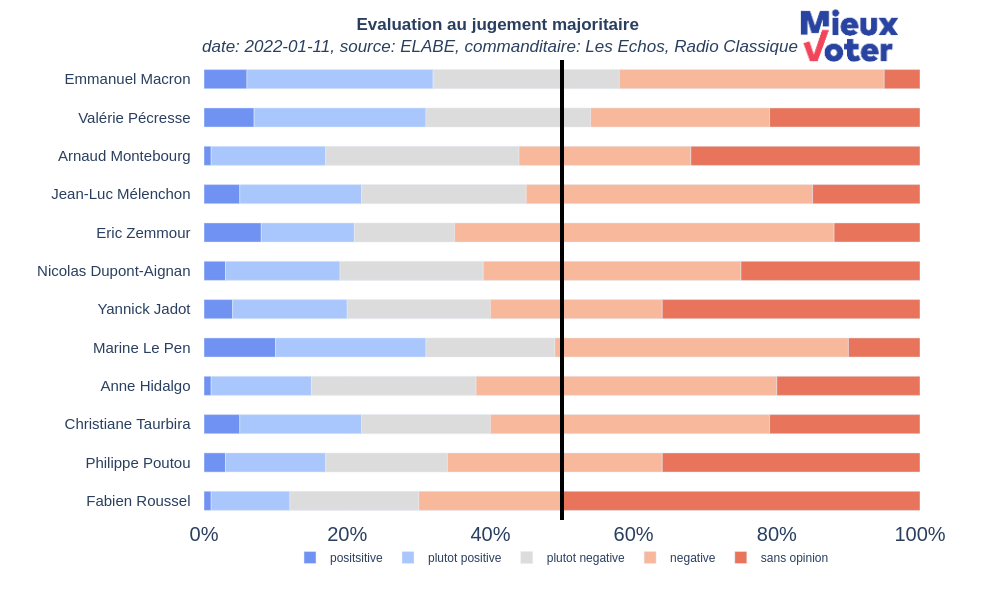
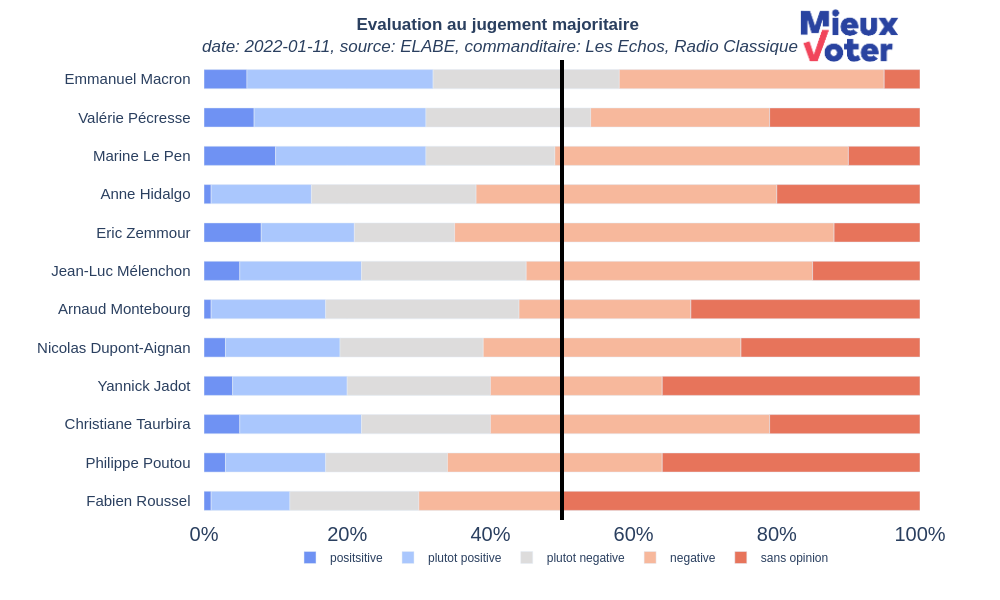
maj jm, need to fix the database for some surveys.

diff --git a/interface_mj.py b/interface_mj.py
@@ -1,4 +1,4 @@
-from libs import majority_judgment as mj
+from libs.majority_judgment_2 import majority_judgment as mj
 import pandas as pd
 from pandas import DataFrame
 from utils import (
@@ -12,7 +12,7 @@ def sort_candidates_mj(
     nb_grades: int,
 ):
     """
-    Reindexing candidates in the dataFrame following mj rules
+    Reindexing candidates in the dataFrame following majority judgment rules
 
     Parameters
     ----------
@@ -32,22 +32,32 @@ def sort_candidates_mj(
 
     # only intentions of votes in the dataframe
     intentions = df[col]
-    merit_profiles = generate_merit_profiles(intentions, nb_grades, nb_candidates)
 
-    # generate data for the use of mj
-    majo_vals = [mj.MajorityValue(profil) for profil in merit_profiles]
-    sorted_majo_vals = mj.sort_by_value_with_index(majo_vals)
+    # merit_profiles1 = set_merit_profiles(intentions, nb_grades, nb_candidates)
+    # merit_profiles2 = set_merit_profiles2(intentions, nb_grades, nb_candidates)
+    # merit_profiles3 = set_merit_profiles3(intentions, nb_grades, nb_candidates)
 
+    # # generate data for the use of mj
+    # majo_vals = [mj.MajorityValue(profil) for profil in merit_profiles1]
+    # sorted_majo_vals = mj.sort_by_value_with_index(majo_vals)
     # get back index of ranks for each candidates
-    rank_idx = [idx for idx, value in sorted_majo_vals]
+    # rank_idx = [idx for idx, value in sorted_majo_vals]
+    # rank_idx.reverse()
 
+    merit_profiles_dict = set_dictionary(df_intentions, nb_grades, nb_candidates)
+    ranking = mj(merit_profiles_dict, reverse=True)
+
+    new_df = pd.DataFrame(columns=df_intentions.columns)
+    for key in ranking:
+        row = df_intentions[df_intentions["candidat"] == key]
+        new_df = pd.concat([new_df, row], ignore_index=True)
     # set new index of rows
-    df_intentions.index = pd.Index(data=rank_idx, dtype="int64")
+    new_df.index = pd.Index(data=[i for i in range(1, nb_candidates+1)], dtype="int64")
 
-    return df_intentions.sort_index(axis=0, ascending=True)
+    return df_intentions.reindex(index=df_intentions.index[::-1])
 
 
-def generate_merit_profiles(df_intentions: DataFrame, nb_grades: int, nb_candidates: int):
+def set_merit_profiles(df_intentions: DataFrame, nb_grades: int, nb_candidates: int):
     """
     Convert a list of votes into a matrix containing the number of grades for
     each candidate
@@ -66,3 +76,45 @@ def generate_merit_profiles(df_intentions: DataFrame, nb_grades: int, nb_candida
     the length of the list is the number of candidates
     """
     return [{j: df_intentions.iloc[i, j] for j in range(nb_grades)} for i in range(nb_candidates)]
+
+
+def set_merit_profiles2(df_intentions: DataFrame, nb_grades: int, nb_candidates: int):
+    """
+    Convert a list of votes into a matrix containing the number of grades for
+    each candidate
+
+    Parameters
+    ----------
+    df_intentions: DataFrame
+        contains only all votes for each grade
+    nb_grades: int
+        number of grades
+    nb_candidates: int,
+        number of candidates
+    Returns
+    -------
+    A list of dictionaries which contains the number of votes for each grade for each candidates,
+    the length of the list is the number of candidates
+    """
+    return [{j: df_intentions.iloc[i, nb_grades-j-1] for j in range(nb_grades-1, -1, -1)} for i in range(nb_candidates)]
+
+
+def set_dictionary(df_intentions: DataFrame, nb_grades: int, nb_candidates: int):
+    """
+    Convert a list of votes into a matrix containing the number of grades for
+    each candidate
+
+    Parameters
+    ----------
+    df_intentions: DataFrame
+        contains only all votes for each grade
+    nb_grades: int
+        number of grades
+    nb_candidates: int,
+        number of candidates
+    Returns
+    -------
+    A list of dictionaries which contains the number of votes for each grade for each candidates,
+    the length of the list is the number of candidates
+    """
+    return {df_intentions["candidat"].iloc[i]: [df_intentions.iloc[i, j+1] for j in range(nb_grades)] for i in range(nb_candidates)}

diff --git a/libs/majority_judgment_2.py b/libs/majority_judgment_2.py
@@ -1,0 +1,121 @@
+#!/usr/bin/env python3
+# -*- coding: utf-8 -*-
+"""
+Created on Sat Jan 15 23:34:39 2022
+
+@author: Rémy Poulain
+adapted by Pierre Puchaud 10 Fev 2022
+"""
+
+import matplotlib.pyplot as plt
+import numpy as np
+import csv
+
+from matplotlib.lines import Line2D
+import matplotlib.patches as patches
+import os
+
+from typing import Dict, List
+
+
+def majority_judgment(data: Dict[str, List[int]] = None, reverse: bool = False):
+    """
+    apply majority judgment
+
+    Parameters
+    ----------
+    data: Dict[str, List]
+        Results of the votes
+        str correspond to the names of candidates, List of int is the number for each grades
+    reverse bool
+        if you want to flip the grades order
+    Returns
+    -------
+        Rank order for each candidates in a Dictionary Dict[str,rank: int]
+    """
+    if reverse:
+        data = {x: l[::-1] for x, l in data.items()}
+    snbvot = {sum(x) for x in data.values()}
+    total_votes = list(snbvot)[0]
+    if not len(snbvot) == 1:
+        raise ValueError("note the same number of vote for each candidate")
+
+    cumulative_sum = {x: np.cumsum(y) / total_votes for x, y in data.items()}
+
+    # compute median indexes
+    median_grades = {x: best_grade(l) for x, l in cumulative_sum.items()}
+    # best one
+    best_grade_mm = sorted(median_grades.values())[-1]
+
+    majority = {x: fmajorit(median_grades, total_votes, x, r) for x, r in data.items()}
+    bests = sorted(majority.items(), key=lambda x: x[1][1])[::-1]
+
+    # as written by Fabre in fact it is just necessary to compare the modified note
+    ranking = {x[0]: i + 1 for i, x in enumerate(bests)}
+
+    return ranking
+
+
+def best_grade(l: List):
+    """
+    Evaluates the best grades
+
+    Parameters
+    ----------
+    l: List
+        The list of the cumulative sum from 0 to 1
+    Returns
+    -------
+    The median grade
+    """
+    for i, x in enumerate(l):
+        if x > 0.5:  # todo: ici ça peut être >= , need to handle pair and not pair cases.
+            return i
+
+
+def fmajorit(index_median: Dict[str, int],
+             nbvot: int,
+             candidate: str,
+             grades: List[int]):
+    """
+    Rank each candidate according to
+    # https://fr.wikipedia.org/wiki/M%C3%A9thode_de_meilleure_m%C3%A9diane#cite_note-Fabre20-3
+
+    Parameters
+    ----------
+    index_median: Dict[str, int]
+        The dictionary of candidate and its median grade
+    nbvot: int
+        The total number of votes
+    candidate: str
+        The considered candidate
+    grades: List[int]
+        The list number of grades for the given candidat
+
+    Returns
+    -------
+    A list which contains
+    i : alpha the index corresponding to the majority grade
+    m : "enhanced" grade
+    p : rate of sponsors, size at the left
+    q: rate of opponents, size at the right
+    b: boolean = True if more sponsors than opponents
+    d: bonus / malus function of p and q
+    e: the number of votes to pass to get the next grade
+    i2: index of the next grade
+    """
+    i = index_median[candidate]
+    q = sum(grades[:i]) / nbvot
+    p = sum(grades[i + 1:]) / nbvot
+    b = p > q
+    m = i
+    if b:
+        d = p
+        i2 = i + 1
+    else:
+        d = -q
+        i2 = i - 1
+    m += d
+    e = min(nbvot / 2 + 1 - sum(grades[:i]), sum(grades[:(i + 1)]) - (nbvot / 2))
+    e = int(e * 2)
+    return [i, m, p, q, b, d, e, i2]
